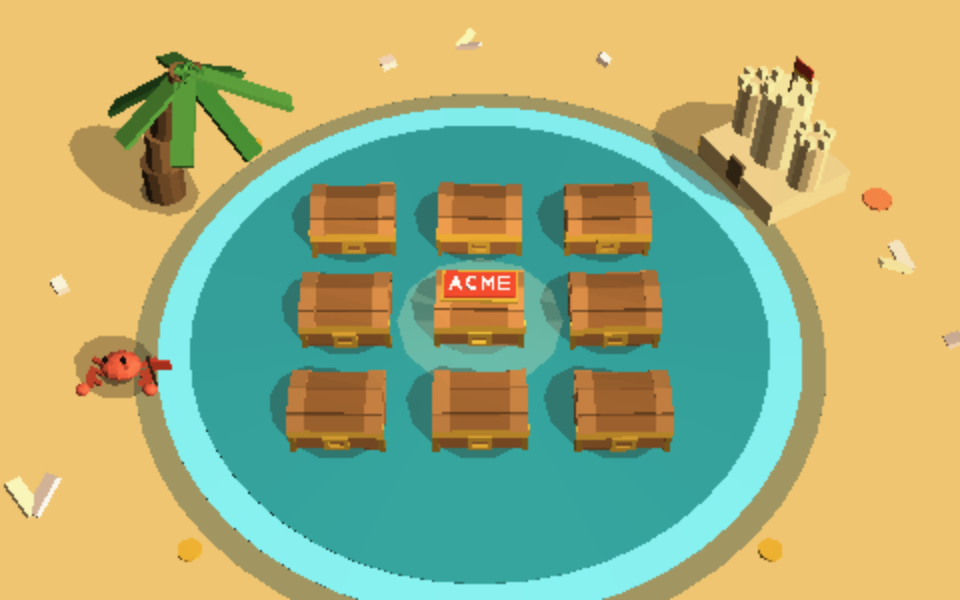
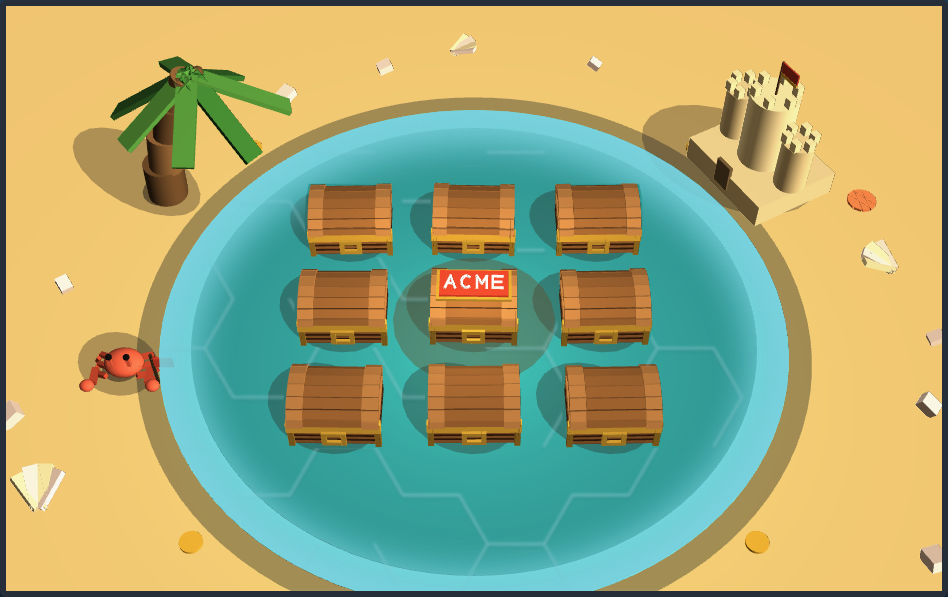
convergence(treasure-chest-pick): judge the webgl2 arm, and let it draw at full resolution
The campaign had been scoring the CANVAS2D software rasterizer for five
iterations without ever saying so — capture.md pinned `backend=canvas2d` as "the
deterministic baseline". That is the arm with the least headroom against this
reference and not the one a player with a GPU sees. campaign.toml now declares
judged = webgl2, guard = [canvas2d].

Three changes carry it:

* games/casino-mount.ts resolves render quality PER TIER. A game's configured
  `renderQuality` is its SOFTWARE baseline; it was going to both backends, so the
  hardware path drew at half the canvas and stretched — the cause of the stair-
  stepped diagonals. definition.ts already wanted 1.0; there was nowhere to say
  "0.5 on software, native on hardware". The split is one-directional and the
  software path is byte-identical: 468x293, 137k samples, 398 nodes/frame,
  124517 node-frames, exactly the frame-rate gate's baseline.

* browser/agent_capture.py can now capture webgl2 at all. The engine's GL context
  has no `preserveDrawingBuffer`, so the `native` clip reads back BLANK; and
  `await_frozen` polled that same blank read regardless of clip, so the freeze
  gate passed on its first two polls while capturing an unsettled frame. The
  detector now reads through the same path as the shot, and compositor reads
  suppress the chrome that overlaps the render.

* the stale scorecard is MARKED stale rather than left to read as true. Both the
[…]

diff --git a/apps/casino-games/web/src/games/casino-mount.ts b/apps/casino-games/web/src/games/casino-mount.ts
@@ -7,8 +7,17 @@
  * rule of the fairness contract lives in the pure fold, not here.
  */
 
-import type { RenderQuality, Scene, ToneSpec, ViewContext } from "@axiom/web-engine";
-import { MITER_LIMIT, clampRenderQuality, rendererBackendName, resolveBackingSize, runGame } from "@axiom/web-engine";
+import type { BackendChoice, RenderQuality, Scene, Tier, ToneSpec, ViewContext } from "@axiom/web-engine";
+import {
+  MITER_LIMIT,
+  clampRenderQuality,
+  detectTierSync,
+  latestDetection,
+  rank,
+  rendererBackendName,
+  resolveBackingSize,
+  runGame,
+} from "@axiom/web-engine";
 import type { CasinoHud, GameRuntime, RunningCasinoGame } from "../chance-engine/registry/definition.ts";
 import { cameraShakeOffset } from "../presentation/cameras/presets.ts";
 import { CANVAS_HEIGHT, CANVAS_WIDTH } from "../presentation/cameras/picking.ts";
@@ -76,6 +85,74 @@ const attachOverlay = (
 export type { CasinoMountSpec, CasinoState } from "./round-state.ts";
 export { celebrationFor, COMMON_ACTIONS, outcomeRarity, speedTicks } from "./round-state.ts";
 
+/*
+ * ── rasterization quality is resolved PER TIER ────────────────────────────────
+ *
+ * A game's configured `renderQuality` is its SOFTWARE baseline. It has to be:
+ * the Canvas2D rasterizer costs very nearly one unit of time per backing pixel,
+ * so a game that wants to stay playable on the software path picks a
+ * conservative `renderScale` (the chest game pins 0.5 with `fixed-1x`, which is
+ * the resolution the engine drew at back when that was hard-coded).
+ *
+ * The HARDWARE path has no reason to wear that number. On WebGL2 the cost of a
+ * backing pixel is a rounding error next to the cost of a draw call, and drawing
+ * at half the canvas and letting the browser stretch the result is exactly what
+ * makes every diagonal in the scene stair-step. The game's own config comment
+ * says as much — "the rung worth reaching for is 1.0, which removes the upscale
+ * entirely" — and then hands 0.5 to both backends anyway, because there was
+ * nowhere to say "0.5 on software, native on hardware."
+ *
+ * This is that place. It is the right one: `casino-mount.ts` is the app's impure
+ * mount shell and already the single site where quality is validated, and the
+ * tier is a property of the MACHINE, not of the game's configuration — so it
+ * must not become a twentieth field in the config schema that every operator
+ * panel and stored config has to carry.
+ *
+ * The split is strictly one-directional: the software tiers get exactly what the
+ * config asked for, byte for byte. Nothing here can make the Canvas2D path draw
+ * a single extra sample, which is what keeps
+ * `treasure-chest-pick/frame-rate.test.ts` (398 nodes/frame, 137k samples) green
+ * by construction rather than by luck.
+ */
+
+/** The best tier that still rasterizes in SOFTWARE. `webgl1` maps to the Canvas2D
+ * backend (the GL backend needs GLSL 300 es), so the hardware split has to key on
+ * webgl2-or-better — not on "anything that isn't canvas2d". */
+const SOFTWARE_CEILING: Tier = "webgl1";
+
+/** Backing resolution the hardware path is allowed to reach: native 1:1 with the
+ * canvas's CSS box, so the blit stops being an upscale. */
+const HARDWARE_RENDER_SCALE = 1;
+
+/** Which tier this mount is about to land on, resolved BEFORE `runGame` builds the
+ * backend (the quality is read once, at construction).
+ *
+ * An explicit `?backend=` choice is taken at its word — that is what forcing a
+ * rung means. Otherwise the probed ladder decides, and `latestDetection()` is
+ * preferred so this shares the one probe `initRenderer("auto")` will itself reuse
+ * rather than painting the ladder's test patterns twice per mount. */
+const mountTier = (choice: BackendChoice | undefined): Tier =>
+  choice === undefined || choice === "auto"
+    ? (latestDetection() ?? detectTierSync()).tier
+    : choice === "css"
+      ? "css3d"
+      : choice;
+
+/** The configured quality on a software tier; the same quality lifted to native
+ * resolution on a hardware one. `rank` is ascending-by-capability-loss (webgpu 0 …
+ * css3d 4), so "at least as good as webgl2" is `rank(tier) < rank("webgl1")`. */
+const qualityForTier = (configured: RenderQuality, tier: Tier): RenderQuality =>
+  rank(tier) < rank(SOFTWARE_CEILING)
+    ? clampRenderQuality({
+        ...configured,
+        // Follow the display, bounded by the config's own `maxPixelRatio` — a
+        // HiDPI player gets the sharpness their panel can show, and the engine's
+        // `maxSamples` still bounds the maximised-window case.
+        pixelRatioMode: "capped-device",
+        renderScale: Math.max(configured.renderScale, HARDWARE_RENDER_SCALE),
+      })
+    : configured;
+
 /** Mount one game on `canvas` under `runtime`. */
 export const mountCasinoGame = <TSpec, TExtra>(
   canvas: HTMLCanvasElement,
@@ -93,7 +170,11 @@ export const mountCasinoGame = <TSpec, TExtra>(
   // the 2D overlay layer so both surfaces sample at the same rate. A game that
   // sets nothing gets the engine default. Nothing below this line feeds the fold,
   // the seed, or the result source — quality cannot reach an outcome.
-  const quality = clampRenderQuality(runtime.config.renderQuality);
+  //
+  // The configured value is the SOFTWARE baseline; a hardware tier lifts it to
+  // native resolution. See the `qualityForTier` note above — the software path is
+  // guaranteed to get exactly what the config asked for.
+  const quality = qualityForTier(clampRenderQuality(runtime.config.renderQuality), mountTier(runtime.backend));
 
   const view = (state: CasinoState<TExtra>, ctx: ViewContext): Scene => {
     const scene = spec.viewScene(state, ctx);

diff --git a/apps/casino-games/web/browser/agent_capture.py b/apps/casino-games/web/browser/agent_capture.py
@@ -130,21 +130,73 @@ class CasinoAgent:
         self.settle()
 
     # ── capture ──────────────────────────────────────────────────────────────
+    #
+    # There are two ways to read a frame out of this app, and which one is
+    # correct depends on the BACKEND:
+    #
+    #   * `native` reads the canvas BACKING STORE via `toDataURL` — exactly the
+    #     pixels the renderer wrote, no browser resampling, no page chrome. It is
+    #     the right read for canvas2d and it is the only read that is a pure
+    #     function of (seed, config, tick).
+    #   * `canvas` / `stage` screenshot the composited PAGE and clip to an
+    #     element. This is the only read that works on **webgl2**: the engine
+    #     builds its GL context without `preserveDrawingBuffer`, so by the time
+    #     `toDataURL` runs the drawing buffer has been presented and cleared, and
+    #     the backing store reads back BLANK.
+    #
+    # Because the compositor path screenshots the real page, the arcade chrome
+    # that sits on top of the render (the rails, the signboard, the result
+    # banner) lands in the shot. The convergence campaign converges the RENDER,
+    # not the UI text (see visual_targets/*/capture.md), so `_chrome` takes it off
+    # for the duration of the read and puts it straight back.
+    #
+    # Prefer `stage` over `canvas` for a webgl2 convergence capture: `#stage`
+    # contains the 3D canvas AND the transparent Canvas2D overlay layer the game
+    # hangs over it (the stylized water surface), so it is the whole render.
+    # `#axiom-canvas` alone would silently drop the water.
+
+    #: Chrome that OVERLAPS the render surface, hidden for a compositor read.
+    CHROME_SELECTORS = (".cab-rail--left", ".cab-rail--right", "#instruction", "#result-banner")
+
+    def _chrome(self, visible: bool) -> None:
+        self.page.evaluate(
+            """([selectors, visible]) => {
+                 for (const selector of selectors)
+                   for (const el of document.querySelectorAll(selector))
+                     el.style.visibility = visible ? "" : "hidden";
+               }""",
+            [list(self.CHROME_SELECTORS), visible],
+        )
+
+    def _composite(self, clip: str, scale: float) -> bytes:
+        """Screenshot the composited page, clipped to the render surface, with the
+        chrome suppressed. Restores the chrome even if the screenshot raises."""
+        self._chrome(False)
+        try:
+            kwargs = {"scale": "css" if scale == 1 else "device"}
+            if clip in ("canvas", "stage"):
+                kwargs["clip"] = self.page.locator("#axiom-canvas" if clip == "canvas" else "#stage").bounding_box()
+            return self.page.screenshot(**kwargs)
+        finally:
+            self._chrome(True)
+
+    def read_frame(self, clip: str, scale: float = 1.0) -> bytes:
+        """The current frame, read the same way `screenshot` will read it.
+
+        The freeze detector below MUST agree with the capture about what "the
+        frame" is. It used to always poll `toDataURL` regardless of clip, which is
+        blank on webgl2 — so two blank reads compared equal, `frozen` returned on
+        its first two polls, and the gate reported a settled frame before the sim
+        had reached its freeze tick. It passed while capturing nothing.
+        """
+        if clip == "native":
+            data = self.page.evaluate("() => document.getElementById('axiom-canvas').toDataURL('image/png')")
+            return base64.b64decode(data.split(",", 1)[1])
+        return self._composite(clip, scale)
+
     def screenshot(self, path: pathlib.Path, clip: str, scale: float) -> pathlib.Path:
         path.parent.mkdir(parents=True, exist_ok=True)
-        if clip == "native":
-            # The canvas BACKING STORE: exactly what the renderer drew (960x600),
-            # with no browser resampling. Reliable on canvas2d; a WebGL2 context
-            # without preserveDrawingBuffer can read back blank — use --clip canvas
-            # for webgl2 captures.
-            data = self.page.evaluate("() => document.getElementById('axiom-canvas').toDataURL('image/png')")
-            path.write_bytes(base64.b64decode(data.split(",", 1)[1]))
-            return path
-        kwargs = {}
-        if clip in ("canvas", "stage"):
-            box = self.page.locator("#axiom-canvas" if clip == "canvas" else "#stage").bounding_box()
-            kwargs["clip"] = box
-        self.page.screenshot(path=str(path), scale="css" if scale == 1 else "device", **kwargs)
+        path.write_bytes(self.read_frame(clip, scale))
         return path
 
     def settle(self, frames: int = 6):
@@ -152,7 +204,7 @@ class CasinoAgent:
         # next observation/capture.
         self.page.wait_for_timeout(frames * 16)
 
-    def await_frozen(self, max_polls: int = 60, interval_ms: int = 50):
+    def await_frozen(self, clip: str = "native", scale: float = 1.0, max_polls: int = 60, interval_ms: int = 50):
         # Block until the rendered frame stops changing — the real condition a
         # `?shot=N` capture needs, not a wall-clock guess. With the sim frozen at
         # tick N the canvas backing store becomes CONSTANT, so once two
@@ -163,7 +215,7 @@ class CasinoAgent:
         prev = None
         stable = 0
         for _ in range(max_polls):
-            data = self.page.evaluate("() => document.getElementById('axiom-canvas').toDataURL('image/png')")
+            data = self.read_frame(clip, scale)
             if data == prev:
                 stable += 1
                 if stable >= 2:
@@ -229,7 +281,9 @@ def run_step(agent: CasinoAgent, step: str, out: pathlib.Path, shots: list[pathl
     elif verb == "wait":
         agent.page.wait_for_timeout(int(arg))
     elif verb == "frozen":
-        agent.await_frozen()
+        # Poll through the SAME read path the shot will use, so the freeze gate
+        # cannot pass on a read that the capture does not share (see read_frame).
+        agent.await_frozen(clip, scale)
     elif verb == "key":
         agent.key(arg)
     elif verb in ("move", "click"):
